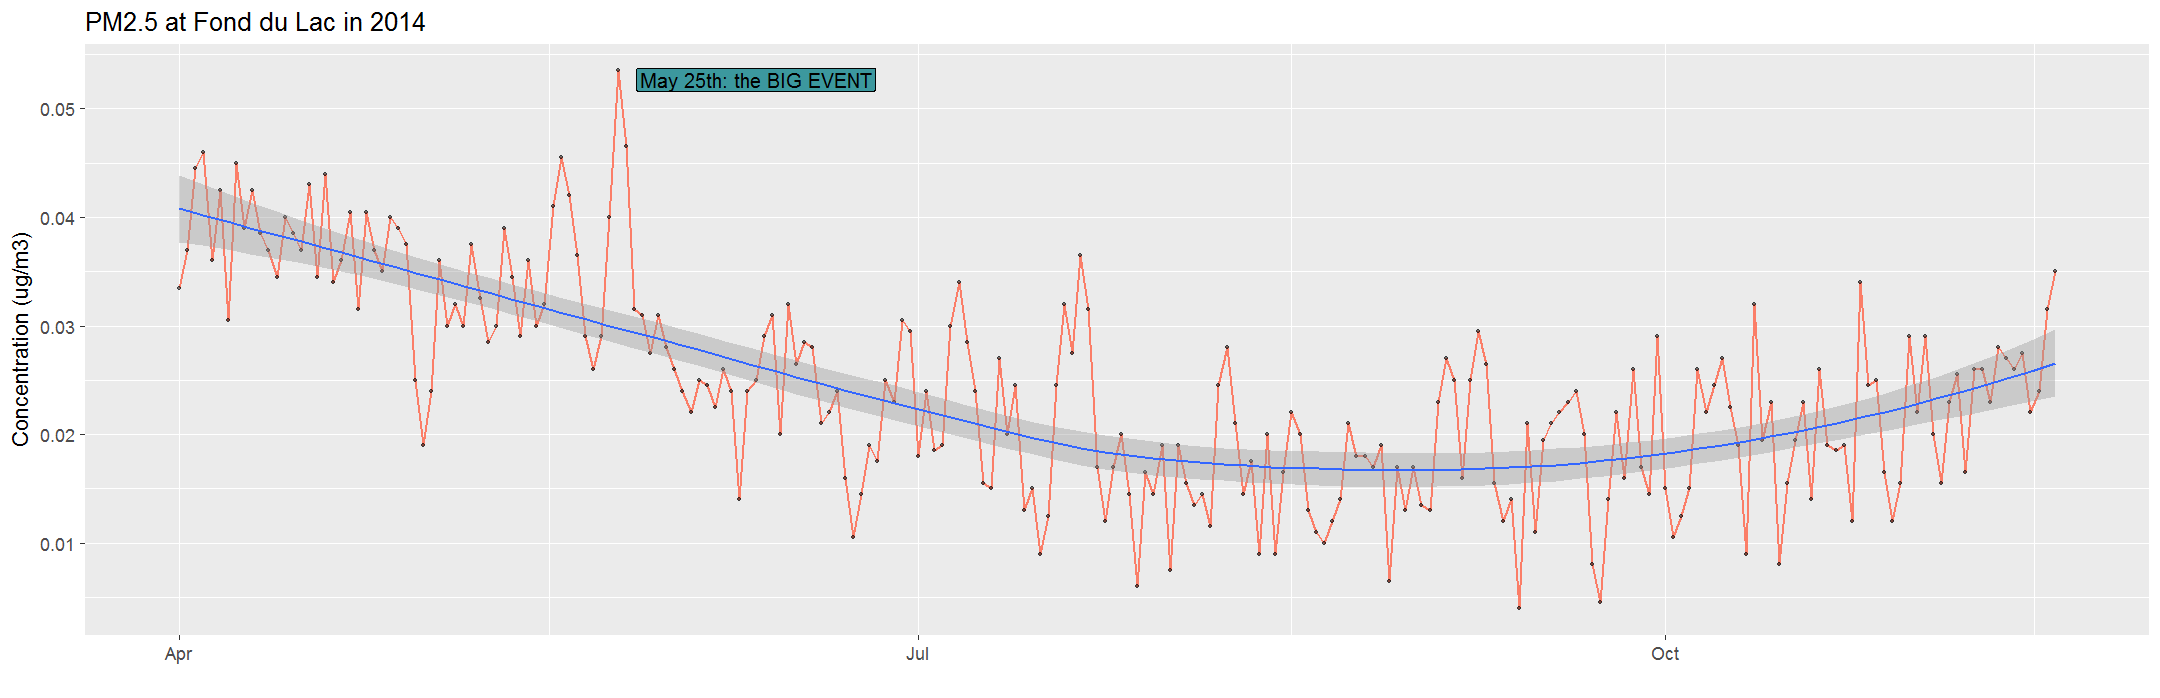
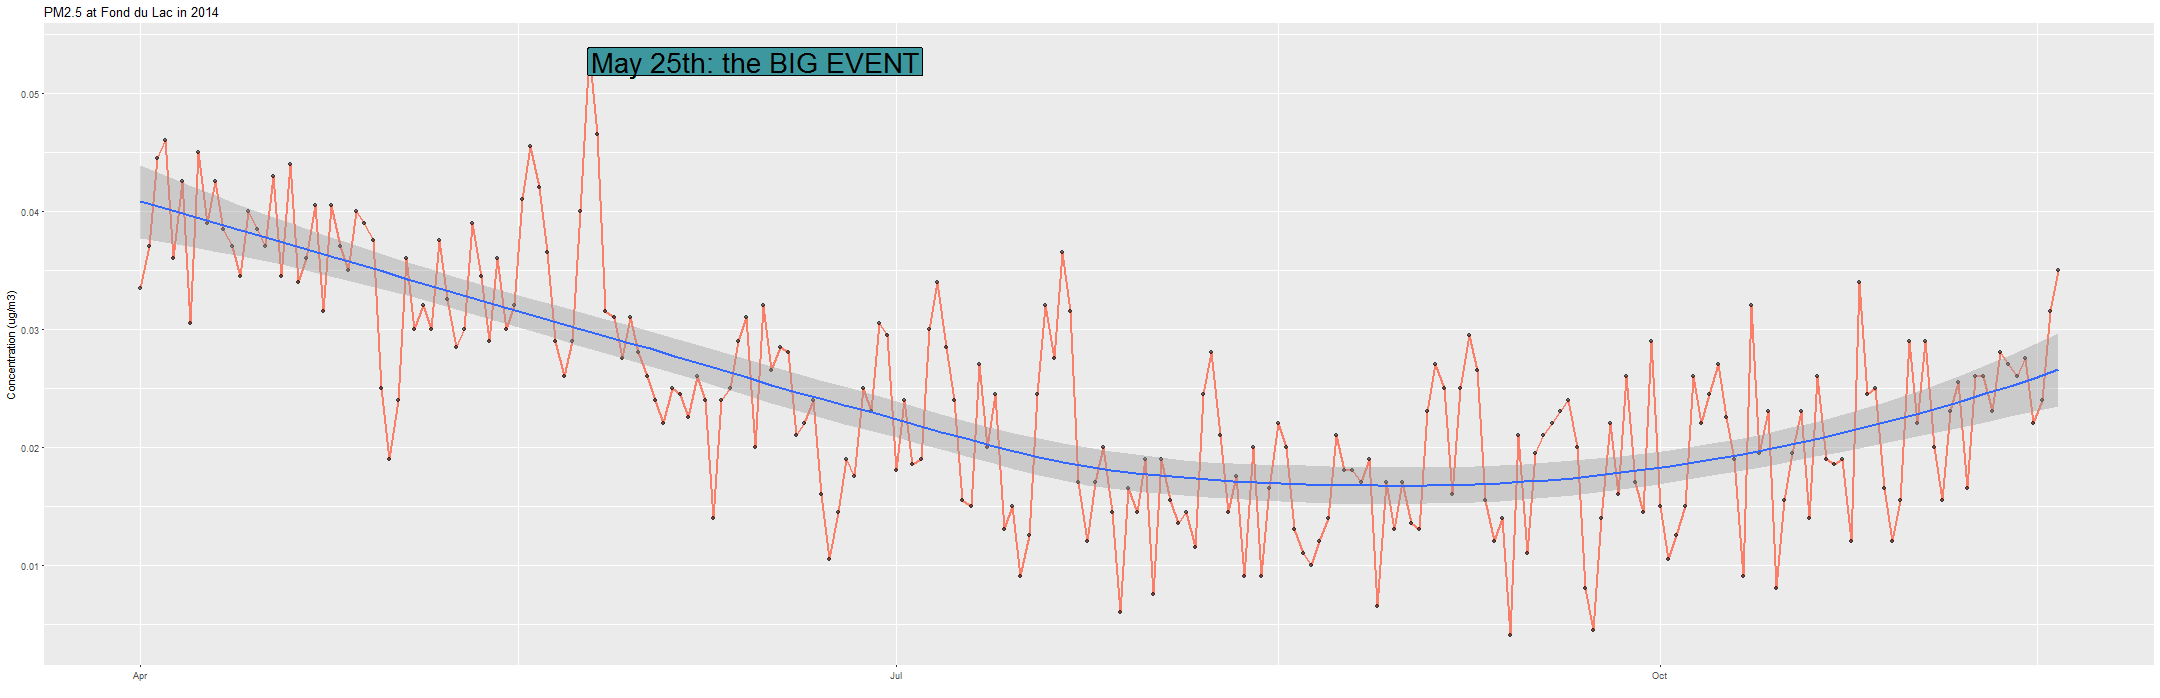
update charts and map

diff --git a/NTF_Demo.html b/NTF_Demo.html
@@ -102,17 +102,17 @@ Imagine 1,000's of graduate students, non-profits, scientists, and data enthusia
 
 .center[This is happening __RIGHT NOW__.]
 
+
 ---
+class: center, middle
+
 
 # Top 10 reasons to use R
 
-.center[
-![:scale 65%](images/letterman_top10.png)
-]
 
 &lt;br&gt;
 
-The following slides contain our 10 favorite things about R. R almost rhymes with _share_.
+The following slides contain our 10 favorite things about R.
 
 
 
@@ -275,6 +275,10 @@ data &lt;- read_excel("data.xlsx", sheet = "2014")
 __readxl__ is only one of many helpful R packages out there. Here's a sample of our favorites.
 
 We have lots of stickers and you should take some with you. Many are for a variety of R communities.
+
+&lt;img src="https://i.pinimg.com/736x/e6/50/80/e650804e9948b5b8b9c231285a576f1b--gears-stickers.jpg" width="345" align="center" style="margin-right: 40px; margin-top: 10px;"&gt;
+
+
 
 ---
 
@@ -1008,10 +1012,10 @@ install.packages("openair")
 ```r
 library(openair)
 
-air_met &lt;- air_met %&gt;%
-select(datetime, Conc) %&gt;%
-rename(date = datetime)
-#openair requires dates to be stored under field name "date"
+air_met &lt;- air_met %&gt;% rename(date = Date,
+                              Concentration = Conc)
+
+# openair requires dates to be stored under field name "date"
 
 calendarPlot(air_met, 
              pollutant = "Concentration", 
@@ -1038,10 +1042,16 @@ install.packages("ggbeeswarm")
 ```r
 library(ggbeeswarm)
 
-ggplot(air_met, aes(y = site_catid, x = Conc)) + 
+ggplot(air_met, aes(y = site_catid, x = Concentration)) + 
     geom_quasirandom(groupOnX = F) +   
     labs(title = "PM2.5 Result (ug/m^3)")
 ```
+
+```
+## Error in FUN(X[[i]], ...): object 'Concentration' not found
+```
+
+![](NTF_Demo_files/figure-html/unnamed-chunk-36-1.png)&lt;!-- --&gt;
 
 
 ---
@@ -1058,8 +1068,8 @@ filter(data_2014, SiteNum == 7417) %&gt;% group_by(Date) %&gt;%
          geom_line(size = 1, color = "tomato", alpha = 0.8) +
          geom_point(alpha = 0.5) + geom_smooth() +
          ylab("Concentration (ug/m3)") + xlab("") + ggtitle("PM2.5 at Fond du Lac in 2014") + 
-         geom_label(aes(x = as.Date("2014-06-11"), y = 0.0527), fill = "#3C989E", 
-                    label = "May 25th: the BIG EVENT", size = 7) 
+         geom_label(aes(x = as.Date("2014-06-14"), y = 0.0527), fill = "#3C989E", 
+                    label = "May 25th: the BIG EVENT", size = 10) 
 ```
 
 ![](NTF_Demo_files/figure-html/unnamed-chunk-38-1.png)&lt;!-- --&gt;
@@ -1109,10 +1119,21 @@ class: inverse, middle, center
 
 # A calming nature journal
 
-```
-ggpomological()
 
+
+```r
+library(ggpomological)
+
+nature_plot &lt;- ggplot(data_2014, aes(x = Date, y = Conc)) +
+                 geom_point(aes(color = as.factor(month(Date)), fill = as.factor(month(Date))), alpha = 0.8) + 
+                 scale_color_pomological() + scale_fill_pomological() + 
+                 theme_pomological_fancy() +
+                 labs(title = "Air monitoring results") + theme(legend.position = "none")
+
+paint_pomological(nature_plot, res = 120, width = 1200, height = 400)
 ```
+
+&lt;img src="NTF_Demo_files/figure-html/unnamed-chunk-42-1.png" width="1600" height="410px" /&gt;
 
 ---
 
@@ -1120,19 +1141,30 @@ ggpomological()
 
 It's nice to have words. 
 
-How would you describe going from data in a __wide__ format to data in a __tall__ format?
-
-&lt;br&gt;
 
 
-A collection data words:
-
-- gather()
-- spread()
-- mutate()
-- filter()
+1. Let's describe going from data in a __wide__ format to data in a __tall__ format as gather().
 
 
+
+
+
+```r
+library(tidyr)
+
+long_met &lt;- big_met %&gt;% gather(Parameter, Result, -time, -summary, -icon, -site_catid)
+
+view(long_met)
+```
+
+---
+# The reverse is spread().
+
+```r
+wide_met &lt;- long_met %&gt;% spread(Parameter, Result)
+
+view(wide_met)
+```
 ---
 
 
@@ -1313,7 +1345,7 @@ air_sites &lt;- group_by(air_met, site_catid) %&gt;% slice(1) %&gt;% filter(Site
 # Quick interactive map
 leaflet(data = air_sites) %&gt;%
    addTiles() %&gt;%
-   addMarkers(label = ~as.character(SiteNum), 
+   addCircleMarkers(label = ~as.character(SiteNum), 
               labelOptions = labelOptions(noHide = T))
 ```
 
@@ -1329,8 +1361,13 @@ __Go-Go gadget leaflet!__
 
 &lt;br&gt;
 
-<div id="htmlwidget-4efca95501cf2b4a4d2e" style="width:78%;height:504px;" class="leaflet html-widget"></div>
-<script type="application/json" data-for="htmlwidget-4efca95501cf2b4a4d2e">{"x":{"options":{"crs":{"crsClass":"L.CRS.EPSG3857","code":null,"proj4def":null,"projectedBounds":null,"options":{}}},"calls":[{"method":"addTiles","args":["//{s}.tile.openstreetmap.org/{z}/{x}/{y}.png",null,null,{"minZoom":0,"maxZoom":18,"tileSize":256,"subdomains":"abc","errorTileUrl":"","tms":false,"noWrap":false,"zoomOffset":0,"zoomReverse":false,"opacity":1,"zIndex":1,"detectRetina":false,"attribution":"&copy; <a href=\"http://openstreetmap.org\">OpenStreetMap<\/a> contributors, <a href=\"http://creativecommons.org/licenses/by-sa/2.0/\">CC-BY-SA<\/a>"}]},{"method":"addMarkers","args":[[46.713694,46.713694,46.77107,46.81826,46.743657],[-92.511722,-92.511722,-92.11732,-92.08936,-92.165998],null,null,null,{"interactive":true,"draggable":false,"keyboard":true,"title":"","alt":"","zIndexOffset":0,"opacity":1,"riseOnHover":false,"riseOffset":250},null,null,null,null,["7417","7417","7549","7550","7554"],{"interactive":false,"permanent":true,"direction":"auto","opacity":1,"offset":[0,0],"textsize":"10px","textOnly":false,"className":"","sticky":true},null]}],"limits":{"lat":[46.713694,46.81826],"lng":[-92.511722,-92.08936]}},"evals":[],"jsHooks":[]}</script>
+
+```
+## Assuming "Longitude" and "Latitude" are longitude and latitude, respectively
+```
+
+<div id="htmlwidget-bcb5118d69c971474c04" style="width:77%;height:504px;" class="leaflet html-widget"></div>
+<script type="application/json" data-for="htmlwidget-bcb5118d69c971474c04">{"x":{"options":{"crs":{"crsClass":"L.CRS.EPSG3857","code":null,"proj4def":null,"projectedBounds":null,"options":{}}},"calls":[{"method":"addTiles","args":["//{s}.tile.openstreetmap.org/{z}/{x}/{y}.png",null,null,{"minZoom":0,"maxZoom":18,"tileSize":256,"subdomains":"abc","errorTileUrl":"","tms":false,"noWrap":false,"zoomOffset":0,"zoomReverse":false,"opacity":1,"zIndex":1,"detectRetina":false,"attribution":"&copy; <a href=\"http://openstreetmap.org\">OpenStreetMap<\/a> contributors, <a href=\"http://creativecommons.org/licenses/by-sa/2.0/\">CC-BY-SA<\/a>"}]},{"method":"addCircleMarkers","args":[[46.713694,46.713694,46.77107,46.81826,46.743657],[-92.511722,-92.511722,-92.11732,-92.08936,-92.165998],10,null,null,{"interactive":true,"className":"","stroke":true,"color":"#03F","weight":5,"opacity":0.5,"fill":true,"fillColor":"#03F","fillOpacity":0.2},null,null,null,null,["7417","7417","7549","7550","7554"],{"interactive":false,"permanent":true,"direction":"auto","opacity":1,"offset":[0,0],"textsize":"10px","textOnly":false,"className":"","sticky":true},null]}],"limits":{"lat":[46.713694,46.81826],"lng":[-92.511722,-92.08936]}},"evals":[],"jsHooks":[]}</script>
 
 ---
 
@@ -1343,15 +1380,13 @@ __Go-Go gadget leaflet!__
 
 ```r
 # Label our location
-leaflet(data = air_sites) %&gt;%
-   addTiles() %&gt;%
-   addMarkers(label = ~as.character(SiteNum), 
-              labelOptions = labelOptions(noHide = T)) %&gt;%
-    addPopups(-92.478, 46.6659, "&lt;b&gt;&lt;a&gt;You are HERE&lt;/a&gt;&lt;/b&gt;")
+leaflet(data = air_sites) %&gt;% addTiles() %&gt;%
+  addCircleMarkers(label = ~as.character(SiteNum), labelOptions = labelOptions(noHide = T)) %&gt;%
+  addPopups(-92.48, 46.66, "&lt;a&gt;You are HERE&lt;/a&gt;")
 ```
 
-<div id="htmlwidget-d7136b5f234af6b4421f" style="width:78%;height:504px;" class="leaflet html-widget"></div>
-<script type="application/json" data-for="htmlwidget-d7136b5f234af6b4421f">{"x":{"options":{"crs":{"crsClass":"L.CRS.EPSG3857","code":null,"proj4def":null,"projectedBounds":null,"options":{}}},"calls":[{"method":"addTiles","args":["//{s}.tile.openstreetmap.org/{z}/{x}/{y}.png",null,null,{"minZoom":0,"maxZoom":18,"tileSize":256,"subdomains":"abc","errorTileUrl":"","tms":false,"noWrap":false,"zoomOffset":0,"zoomReverse":false,"opacity":1,"zIndex":1,"detectRetina":false,"attribution":"&copy; <a href=\"http://openstreetmap.org\">OpenStreetMap<\/a> contributors, <a href=\"http://creativecommons.org/licenses/by-sa/2.0/\">CC-BY-SA<\/a>"}]},{"method":"addMarkers","args":[[46.713694,46.713694,46.77107,46.81826,46.743657],[-92.511722,-92.511722,-92.11732,-92.08936,-92.165998],null,null,null,{"interactive":true,"draggable":false,"keyboard":true,"title":"","alt":"","zIndexOffset":0,"opacity":1,"riseOnHover":false,"riseOffset":250},null,null,null,null,["7417","7417","7549","7550","7554"],{"interactive":false,"permanent":true,"direction":"auto","opacity":1,"offset":[0,0],"textsize":"10px","textOnly":false,"className":"","sticky":true},null]},{"method":"addPopups","args":[46.6659,-92.478,"<b><a>You are HERE<\/a><\/b>",null,null,{"maxWidth":300,"minWidth":50,"autoPan":true,"keepInView":false,"closeButton":true,"className":""}]}],"limits":{"lat":[46.6659,46.81826],"lng":[-92.511722,-92.08936]}},"evals":[],"jsHooks":[]}</script>
+<div id="htmlwidget-e6da96b5f788808b2462" style="width:77%;height:390px;" class="leaflet html-widget"></div>
+<script type="application/json" data-for="htmlwidget-e6da96b5f788808b2462">{"x":{"options":{"crs":{"crsClass":"L.CRS.EPSG3857","code":null,"proj4def":null,"projectedBounds":null,"options":{}}},"calls":[{"method":"addTiles","args":["//{s}.tile.openstreetmap.org/{z}/{x}/{y}.png",null,null,{"minZoom":0,"maxZoom":18,"tileSize":256,"subdomains":"abc","errorTileUrl":"","tms":false,"noWrap":false,"zoomOffset":0,"zoomReverse":false,"opacity":1,"zIndex":1,"detectRetina":false,"attribution":"&copy; <a href=\"http://openstreetmap.org\">OpenStreetMap<\/a> contributors, <a href=\"http://creativecommons.org/licenses/by-sa/2.0/\">CC-BY-SA<\/a>"}]},{"method":"addCircleMarkers","args":[[46.713694,46.713694,46.77107,46.81826,46.743657],[-92.511722,-92.511722,-92.11732,-92.08936,-92.165998],10,null,null,{"interactive":true,"className":"","stroke":true,"color":"#03F","weight":5,"opacity":0.5,"fill":true,"fillColor":"#03F","fillOpacity":0.2},null,null,null,null,["7417","7417","7549","7550","7554"],{"interactive":false,"permanent":true,"direction":"auto","opacity":1,"offset":[0,0],"textsize":"10px","textOnly":false,"className":"","sticky":true},null]},{"method":"addPopups","args":[46.66,-92.48,"<a>You are HERE<\/a>",null,null,{"maxWidth":300,"minWidth":50,"autoPan":true,"keepInView":false,"closeButton":true,"className":""}]}],"limits":{"lat":[46.66,46.81826],"lng":[-92.511722,-92.08936]}},"evals":[],"jsHooks":[]}</script>
 
 
 ---
